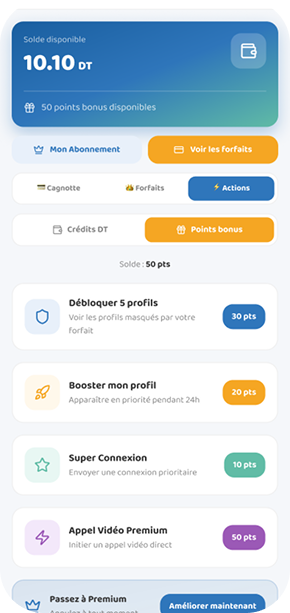
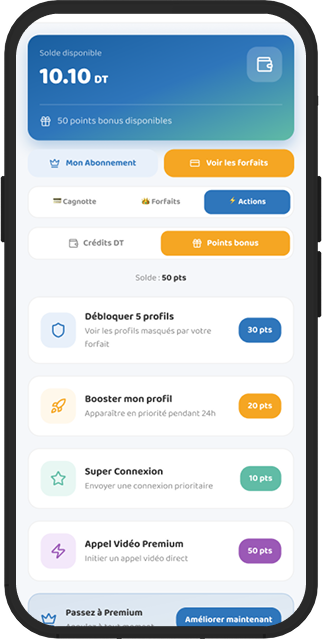
fix(landing): use next/image component in security section

diff --git a/apps/landing/src/components/matchy/security.tsx b/apps/landing/src/components/matchy/security.tsx
@@ -1,6 +1,7 @@
 'use client';
 
 import { useI18n } from '@/features/i18n/i18n-provider';
+import Image from 'next/image';
 
 import { Parallax, Reveal } from './motion';
 
@@ -23,10 +24,12 @@ export function Security() {
           className="relative z-10 flex justify-center md:col-span-5 md:justify-start lg:col-span-5"
         >
           <div className="relative flex justify-center drop-shadow-2xl">
-            <img
+            <Image
               src="/showcase/wallet-phone.png"
               alt="Matchy Wallet"
-              className="h-auto max-h-[500px] w-auto max-w-[260px] object-contain sm:max-w-[300px] md:max-h-[540px] md:max-w-[290px] lg:max-h-[640px] lg:max-w-[370px]"
+              width={323}
+              height={639}
+              className="block h-auto w-full object-cover"
             />
           </div>
         </Parallax>
